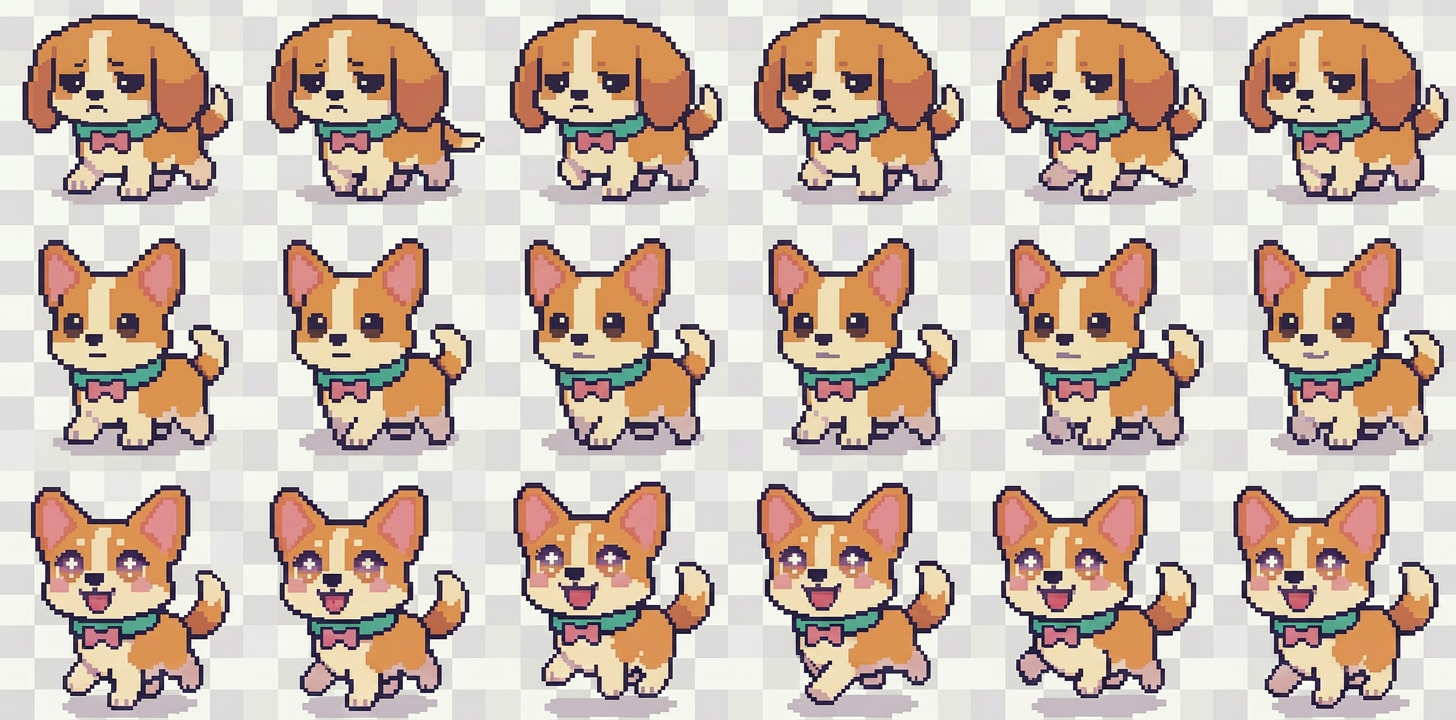
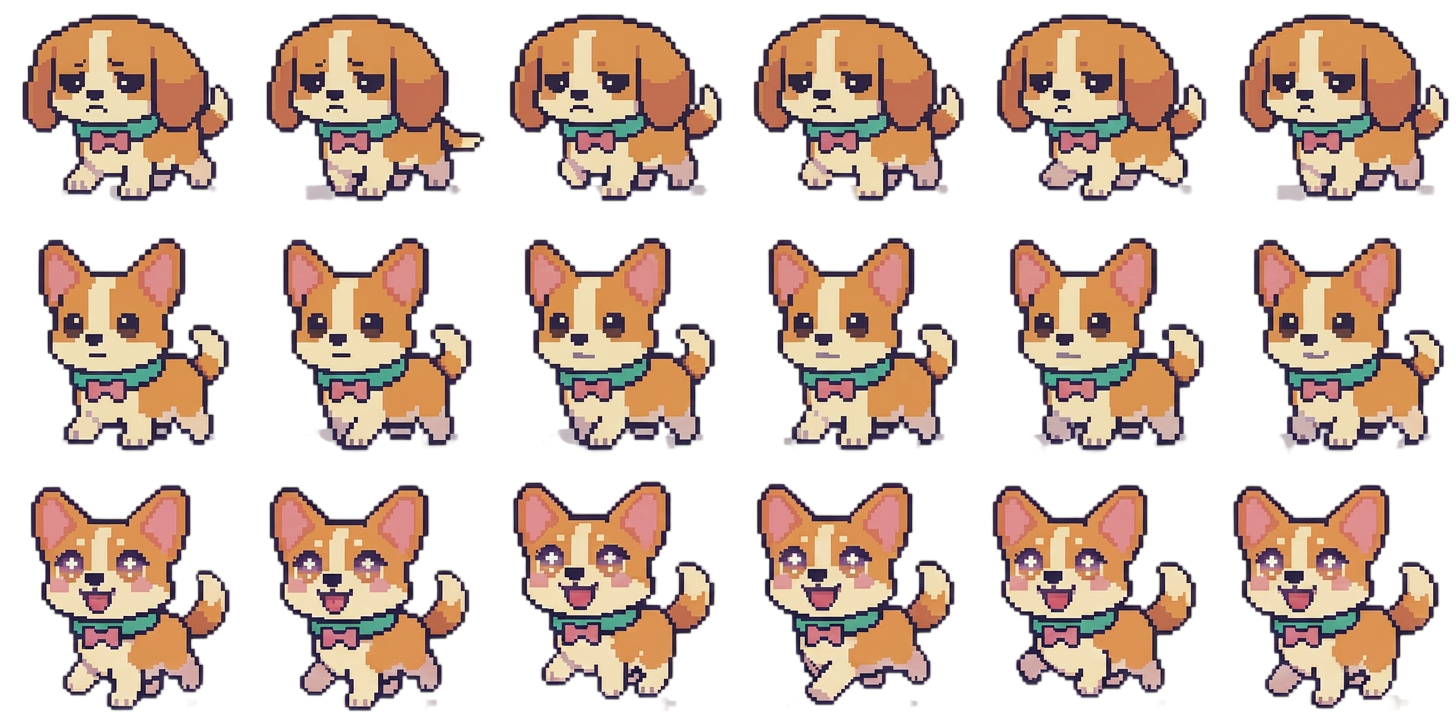
feat: Tile animation

diff --git a/Client-App/src/components/Dashboard.jsx b/Client-App/src/components/Dashboard.jsx
@@ -1,6 +1,7 @@
 import { useEffect, useState } from 'react';
 import { getToken } from '../api/auth';
 import { fetchProgress, updateWeeklyGoal } from '../api/progress';
+import corgiTile from '../assets/corgiTile.png';
 
 const API_BASE = import.meta.env.VITE_API_BASE || 'http://localhost:3000';
 
@@ -9,6 +10,16 @@ const moodLabel = {
   okay: 'Okay',
   sad: 'Sad'
 };
+
+const moodSpriteRow = {
+  sad: 0,
+  okay: 1,
+  happy: 2
+};
+
+const SPRITE_COLUMNS = 6;
+const SPRITE_ROWS = 3;
+const SPRITE_FRAME_MS = 1000;
 
 export default function Dashboard() {
   const [pairStatus, setPairStatus] = useState(null);
@@ -21,6 +32,7 @@ export default function Dashboard() {
   const [progressError, setProgressError] = useState('');
   const [goalInput, setGoalInput] = useState('4');
   const [goalSaving, setGoalSaving] = useState(false);
+  const [spriteFrame, setSpriteFrame] = useState(0);
 
   const fetchPairStatus = async () => {
     const token = getToken();
@@ -60,6 +72,14 @@ export default function Dashboard() {
   useEffect(() => {
     fetchPairStatus();
     fetchUserProgress();
+  }, []);
+
+  useEffect(() => {
+    const intervalId = window.setInterval(() => {
+      setSpriteFrame((currentFrame) => (currentFrame + 1) % SPRITE_COLUMNS);
+    }, SPRITE_FRAME_MS);
+
+    return () => window.clearInterval(intervalId);
   }, []);
 
   const handleGeneratePairCode = async () => {
@@ -118,6 +138,9 @@ export default function Dashboard() {
   const weeklyFeedProgress = Math.min(feedCount, weeklyGoal);
   const streakProgress = Math.min(weeklyFeedProgress / weeklyGoal, 1);
   const streakPercent = Math.round(streakProgress * 100);
+  const spriteRow = moodSpriteRow[progress?.pet_mood] ?? moodSpriteRow.okay;
+  const spriteX = SPRITE_COLUMNS > 1 ? (spriteFrame / (SPRITE_COLUMNS - 1)) * 100 : 0;
+  const spriteY = SPRITE_ROWS > 1 ? (spriteRow / (SPRITE_ROWS - 1)) * 100 : 0;
 
   return (
     <div style={{ maxWidth: 980, margin: '0 auto', padding: '0 16px 32px' }}>
@@ -135,6 +158,25 @@ export default function Dashboard() {
             </div>
 
             <div>
+              <div
+                aria-label={`Corgi pet ${moodLabel[progress.pet_mood] || progress.pet_mood || 'Okay'}`}
+                title={`Corgi pet ${moodLabel[progress.pet_mood] || progress.pet_mood || 'Okay'}`}
+                style={{
+                  width: 'min(100%, 180px)',
+                  aspectRatio: '1 / 1',
+                  margin: '0 auto 12px',
+                  borderRadius: 0,
+                  border: 'none',
+                  backgroundColor: 'transparent',
+                  backgroundImage: `url(${corgiTile})`,
+                  backgroundRepeat: 'no-repeat',
+                  backgroundSize: `${SPRITE_COLUMNS * 100}% ${SPRITE_ROWS * 100}%`,
+                  backgroundPosition: `${spriteX}% ${spriteY}%`,
+                  imageRendering: 'pixelated',
+                  boxShadow: 'none',
+                }}
+              />
+
               <div style={{ marginBottom: 6 }}>
                 <b>Pet mood:</b> {moodLabel[progress.pet_mood] || progress.pet_mood || 'Okay'}
               </div>
